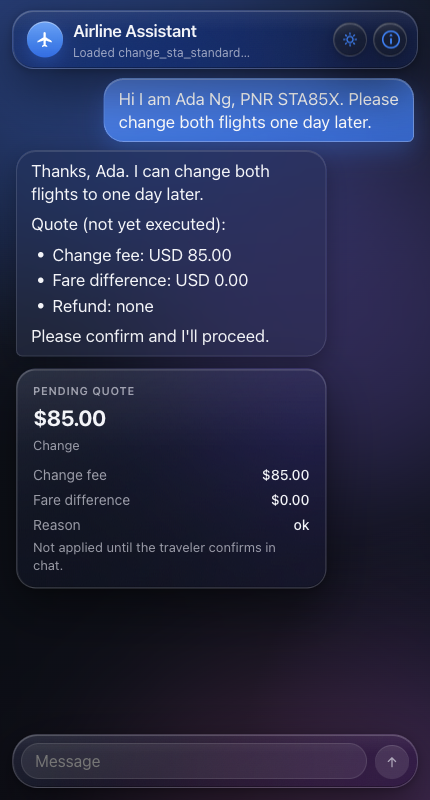
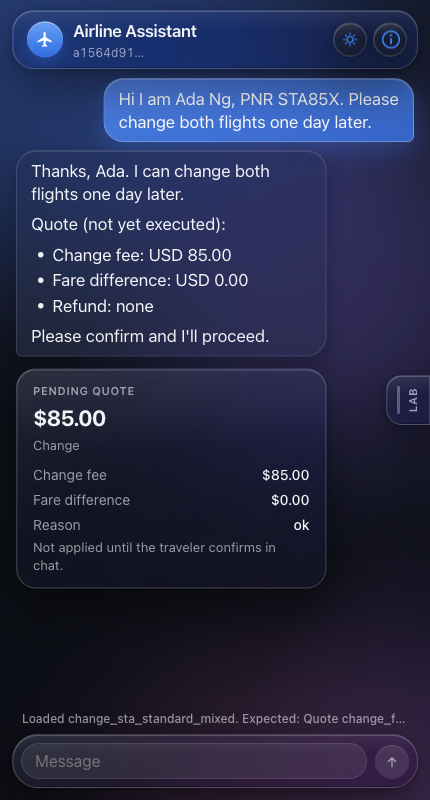
Show the session_id prefix as the chat username so multi-user isolation is visible.

diff --git a/frontend/src/components/ChatPane.tsx b/frontend/src/components/ChatPane.tsx
@@ -5,6 +5,7 @@ import MarkdownMessage from "./MarkdownMessage";
 import QuoteCard from "./QuoteCard";
 
 type Props = {
+  sessionId: string;
   status: string;
   labOpen: boolean;
   onToggleLab: () => void;
@@ -19,6 +20,12 @@ type Props = {
   onDraft: (value: string) => void;
   onSend: (event: FormEvent) => void;
 };
+
+function sessionUserLabel(id: string, chars = 8): string {
+  const compact = id.replace(/-/g, "");
+  if (compact.length <= chars) return compact;
+  return `${compact.slice(0, chars)}…`;
+}
 
 function SendIcon() {
   return (
@@ -79,6 +86,7 @@ function MoonIcon() {
 }
 
 export default function ChatPane({
+  sessionId,
   status,
   labOpen,
   onToggleLab,
@@ -136,7 +144,9 @@ export default function ChatPane({
           </span>
           <div>
             <h1>Airline Assistant</h1>
-            <p>{status}</p>
+            <p className="session-user" title={sessionId} aria-label={`User ${sessionId}`}>
+              {sessionUserLabel(sessionId)}
+            </p>
           </div>
         </div>
         <div className="header-actions">
@@ -190,21 +200,28 @@ export default function ChatPane({
         )}
       </section>
 
-      <form className="composer glass" onSubmit={onSend}>
-        <textarea
-          ref={inputRef}
-          value={draft}
-          onChange={(event) => onDraft(event.target.value)}
-          onKeyDown={onKeyDown}
-          placeholder="Message"
-          rows={1}
-          disabled={busy}
-          aria-label="Message"
-        />
-        <button type="submit" className="send-btn" disabled={!canSend} aria-label="Send">
-          <SendIcon />
-        </button>
-      </form>
+      <div className="composer-stack">
+        {status ? (
+          <p className="status-hint" title={status}>
+            {status}
+          </p>
+        ) : null}
+        <form className="composer glass" onSubmit={onSend}>
+          <textarea
+            ref={inputRef}
+            value={draft}
+            onChange={(event) => onDraft(event.target.value)}
+            onKeyDown={onKeyDown}
+            placeholder="Message"
+            rows={1}
+            disabled={busy}
+            aria-label="Message"
+          />
+          <button type="submit" className="send-btn" disabled={!canSend} aria-label="Send">
+            <SendIcon />
+          </button>
+        </form>
+      </div>
     </main>
   );
 }

diff --git a/frontend/src/App.tsx b/frontend/src/App.tsx
@@ -1,4 +1,4 @@
-import { FormEvent, useCallback, useEffect, useState } from "react";
+import { FormEvent, useCallback, useEffect, useRef, useState } from "react";
 import BookingCard from "./components/BookingCard";
 import CaseList from "./components/CaseList";
 import ChatPane from "./components/ChatPane";
@@ -35,6 +35,7 @@ export default function App() {
   const [status, setStatus] = useState("Open Lab to load a test case.");
   const [bookings, setBookings] = useState<Booking[]>([]);
   const [theme, setTheme] = useState<Theme>(() => readTheme());
+  const bootMockId = useRef(mockSession);
 
   useEffect(() => {
     let cancelled = false;
@@ -54,6 +55,24 @@ export default function App() {
       }
     }
     void load();
+    return () => {
+      cancelled = true;
+    };
+  }, []);
+
+  useEffect(() => {
+    let cancelled = false;
+    async function boot() {
+      try {
+        const created = await createAssistantSession(bootMockId.current);
+        if (!cancelled) {
+          setAssistantSession((current) => current ?? created.session_id);
+        }
+      } catch {
+        // Header falls back to the client mock session id.
+      }
+    }
+    void boot();
     return () => {
       cancelled = true;
     };
@@ -136,6 +155,7 @@ export default function App() {
         <span className="orb orb-c" />
       </div>
       <ChatPane
+        sessionId={assistantSession ?? mockSession}
         status={status}
         labOpen={labOpen}
         onToggleLab={onToggleLab}

diff --git a/frontend/src/styles.css b/frontend/src/styles.css
@@ -340,7 +340,8 @@ button:disabled { cursor: default; opacity: 0.45; }
   letter-spacing: -0.02em;
 }
 
-.chat-identity p {
+.chat-identity p,
+.session-user {
   margin: 2px 0 0;
   color: var(--text-secondary);
   font-size: 12px;
@@ -348,6 +349,11 @@ button:disabled { cursor: default; opacity: 0.45; }
   overflow: hidden;
   text-overflow: ellipsis;
   max-width: min(52vw, 420px);
+}
+
+.session-user {
+  font-variant-numeric: tabular-nums;
+  letter-spacing: 0.02em;
 }
 
 .header-actions {
@@ -407,7 +413,7 @@ button:disabled { cursor: default; opacity: 0.45; }
   display: flex;
   flex-direction: column;
   gap: 8px;
-  padding: 78px 16px 96px;
+  padding: 78px 16px 124px;
 }
 
 .log > * {
@@ -678,12 +684,30 @@ button:disabled { cursor: default; opacity: 0.45; }
 .quote-card dt { color: var(--text-secondary); }
 .quote-card dd { margin: 0; font-weight: 500; text-align: right; }
 
-.composer {
+.composer-stack {
   position: absolute;
   left: 12px;
   right: 12px;
   bottom: 12px;
   z-index: 4;
+  display: flex;
+  flex-direction: column;
+  gap: 8px;
+}
+
+.status-hint {
+  margin: 0 10px;
+  color: var(--text-secondary);
+  font-size: 12px;
+  font-weight: 500;
+  line-height: 1.3;
+  text-align: center;
+  white-space: nowrap;
+  overflow: hidden;
+  text-overflow: ellipsis;
+}
+
+.composer {
   display: flex;
   align-items: flex-end;
   gap: 8px;

diff --git a/README.md b/README.md
@@ -81,9 +81,9 @@ uv run pytest                                                # 全量，含 assi
 
 ## 界面怎么点 / What to click in the UI
 
-打开 http://127.0.0.1:8080。主界面是聊天。用聊天顶栏标题为 **Mock lab** 的按钮（info 图标）或右侧 **Lab** 把手打开 Mock Lab。预设来自 `GET /api/mock/presets`（id 与 [eval/cases.md](eval/cases.md) 和 `tests/` 相同）。在 Lab 里点一条用例：聊天草稿会填入该条的 `starterMessage`。从聊天发送；需要看订座行时再打开 Lab。聊天输入在 Lab 打开时不可用，发消息前请先关掉 Lab。
+打开 http://127.0.0.1:8080。主界面是聊天。顶栏副标题是当前 `session_id` 的前 8 位（用户名；悬停看完整 id）。每个会话一个用户，不能切换。用顶栏 **Mock lab** 按钮（info 图标）或右侧 **Lab** 把手打开 Mock Lab。预设来自 `GET /api/mock/presets`（id 与 [eval/cases.md](eval/cases.md) 和 `tests/` 相同）。在 Lab 里点一条用例：聊天草稿会填入该条的 `starterMessage`，输入框上方出现该条的 status。从聊天发送；需要看订座行时再打开 Lab。聊天输入在 Lab 打开时不可用，发消息前请先关掉 Lab。
 
-Open http://127.0.0.1:8080. The main view is the chat. Open **Mock Lab** with the header button titled **Mock lab** (info icon) or the right-edge **Lab** handle. Presets come from `GET /api/mock/presets` (same ids as [eval/cases.md](eval/cases.md) and `tests/`). Click a case in Lab: the chat draft prefills that case's `starterMessage`. Send from chat; reopen Lab to watch booking rows. The composer is inert while Lab is open -- close Lab before sending.
+Open http://127.0.0.1:8080. The main view is the chat. The header subtitle is the first 8 characters of the current `session_id` (the username; hover for the full id). Each session is one user and cannot be switched. Open **Mock Lab** with the header button titled **Mock lab** (info icon) or the right-edge **Lab** handle. Presets come from `GET /api/mock/presets` (same ids as [eval/cases.md](eval/cases.md) and `tests/`). Click a case in Lab: the chat draft prefills that case's `starterMessage`, and status appears above the composer. Send from chat; reopen Lab to watch booking rows. The composer is inert while Lab is open -- close Lab before sending.
 
 推荐路径（Lab 里显示的用例 **title**）/ Recommended path (case **title** as shown in Lab):
 
@@ -110,7 +110,7 @@ Open http://127.0.0.1:8080. The main view is the chat. Open **Mock Lab** with th
    Under **Handoff**, click **Partly flown refund -> desk**. Expect a desk handoff; do not apply the wholly-unused refund table.
 6. **Custom / blank** -- 在 Lab 底部粘贴自己的 seed JSON 做调试。 / paste your own seed JSON at the bottom of Lab to debug.
 
-真实对话截图（430 x 800 手机聊天框；关 Lab 后才能输入）/ Screenshots from a real run, framed at 430 x 800 (phone chat; Lab closed so the composer is usable):
+真实对话截图（430 x 800 手机聊天框；顶栏显示 `session_id` 前缀；关 Lab 后才能输入）/ Screenshots from a real run, framed at 430 x 800 (phone chat; header shows the `session_id` prefix; Lab closed so the composer is usable):
 
 ![STA Standard 报价 USD 85，尚未执行 / quote USD 85, not yet executed](eval/screenshots/01-change-sta-quote-85.png)
 
